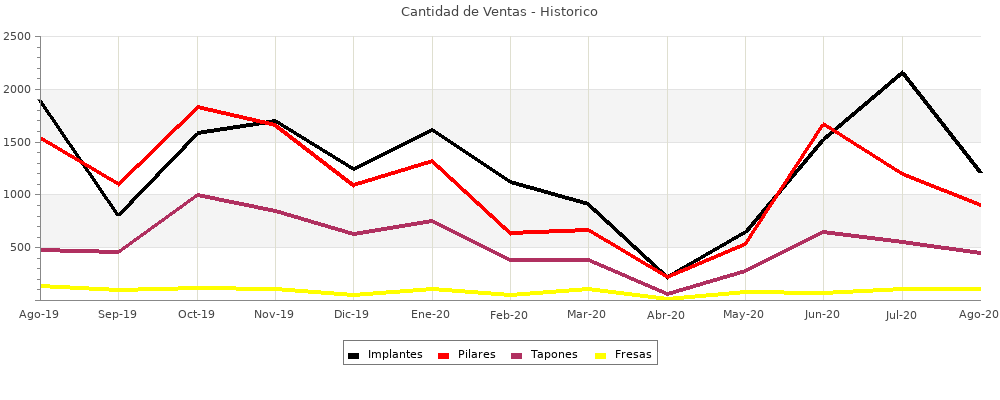
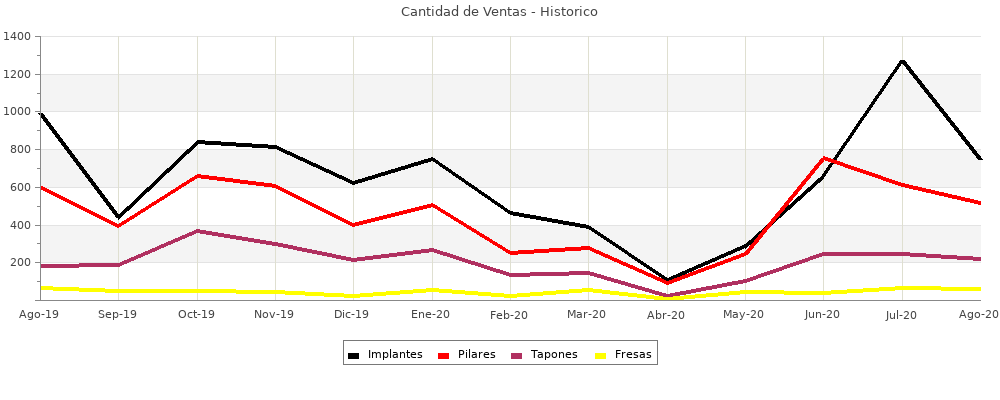
git-svn-id: file:///C/Users/yo/Documents/repositorio_svn_ondontopc/trunk@304 96c2d22d-f105-cb40-99ec-877b05c57555

diff --git a/web/css/inicio.css b/web/css/inicio.css
@@ -73,12 +73,11 @@ header{
 	font-size:16px;
 }
 
-.sf_admin_form{
+.sf_admin_form_row,
+.sf_admin_text, 
+.sf_admin_date,
+.sf_admin_form {
 	font-size: 1.3em;
-}
-
-.sf_admin_text, .sf_admin_date {
-	font-size: 1.2em;
 }
 
 .checkbox_list li{margin-left: 50px;}

diff --git a/lib/model/doctrine/Categoria.class.php b/lib/model/doctrine/Categoria.class.php
@@ -33,14 +33,11 @@ class Categoria extends BaseCategoria
 					from 
 						dev_producto dp
 							join producto p2 on dp.producto_id = p2.id
-							join lote l2 on dp.nro_lote = l2.nro_lote
 							join grupoprod g2 on p2.grupoprod_id = g2.id
 							join resumen r2 on dp.resumen_id = r2.id
 					where 
 						g2.categoria_id = g.categoria_id
 						and r2.tipofactura_id <> 4
-						and l2.activo = 1
-						and l2.externo = 0
 						and dp.fecha >= date_format(curdate(), '%Y-%m-01')
 						and ($p_zona = 0 or dp.zona_id = $p_zona)
 				) as cantidad
@@ -49,12 +46,9 @@ class Categoria extends BaseCategoria
 					join detalle_resumen dr on r.id = dr.resumen_id
 					join producto p on dr.producto_id = p.id
 					join grupoprod g on p.grupoprod_id = g.id
-					JOIN lote l ON dr.nro_lote = l.nro_lote
 			where 
 				g.categoria_id = ".$this->id."
 				and r.tipofactura_id <> 4
-				AND l.externo = 0
-				AND l.activo = 1 
 				and r.fecha >= date_format(curdate(), '%Y-%m-01')
 				and ($p_zona = 0 or r.zona_id = $p_zona)
 		";
@@ -70,14 +64,11 @@ class Categoria extends BaseCategoria
 					from 
 						dev_producto dp
 							join producto p2 on dp.producto_id = p2.id
-							join lote l2 on dp.nro_lote = l2.nro_lote
 							join grupoprod g2 on p2.grupoprod_id = g2.id
 							join resumen r2 on dp.resumen_id = r2.id
 					where 
 						g2.categoria_id = g.categoria_id
 						and r2.tipofactura_id <> 4
-						and l2.activo = 1
-						and l2.externo = 0
 						and dp.fecha between date_format(date_sub(curdate(), interval 1 month), '%Y-%m-01') and date_sub(curdate(), interval 1 month)
 						and ($p_zona = 0 or dp.zona_id = $p_zona)
 				) as cantidad
@@ -86,12 +77,9 @@ class Categoria extends BaseCategoria
 					join detalle_resumen dr on r.id = dr.resumen_id
 					join producto p on dr.producto_id = p.id
 					join grupoprod g on p.grupoprod_id = g.id
-					JOIN lote l ON dr.nro_lote = l.nro_lote
 			where 
 				g.categoria_id = ".$this->id."
 				and r.tipofactura_id <> 4
-				AND l.externo = 0
-				AND l.activo = 1 
 				and r.fecha between date_format(date_sub(curdate(), interval 1 month), '%Y-%m-01') and date_sub(curdate(), interval 1 month)
 				and ($p_zona = 0 or r.zona_id = $p_zona)
 		";
@@ -109,14 +97,11 @@ class Categoria extends BaseCategoria
 					from 
 						dev_producto dp
 							join producto p2 on dp.producto_id = p2.id
-							join lote l2 on dp.nro_lote = l2.nro_lote
 							join grupoprod g2 on p2.grupoprod_id = g2.id
 							join resumen r2 on dp.resumen_id = r2.id
 					where 
 						g2.categoria_id = g.categoria_id
 						and r2.tipofactura_id <> 4
-						and l2.activo = 1
-						and l2.externo = 0
 						and year(dp.fecha) = year(r.fecha)
 						and month(dp.fecha) = month(r.fecha)
 				) as cantidad
@@ -125,12 +110,9 @@ class Categoria extends BaseCategoria
 					join detalle_resumen dr on r.id = dr.resumen_id
 					join producto p on dr.producto_id = p.id
 					join grupoprod g on p.grupoprod_id = g.id
-					JOIN lote l ON dr.nro_lote = l.nro_lote
 			where 
 				g.categoria_id = ".$this->id."
 				and r.tipofactura_id <> 4
-				AND l.externo = 0
-				AND l.activo = 1 
 				and r.fecha between date_format(date_sub(curdate(), interval 13 month), '%Y-%m-01') and last_day(date_sub(curdate(), interval 1 month))
 				and ($p_zona = 0 or r.zona_id = $p_zona)
 			group by

diff --git a/lib/filter/doctrine/ListadoVentasFormFilter.class.php b/lib/filter/doctrine/ListadoVentasFormFilter.class.php
@@ -19,7 +19,9 @@ class ListadoVentasFormFilter extends BaseListadoVentasFormFilter
     $this->widgetSchema['producto_id'] = new sfWidgetFormDoctrineChoice(array('model' => $this->getRelatedModelName('Producto'), 'table_method' => 'getActivos', 'add_empty' => true, 'order_by' => array('apellido', 'asc')), array('data-placeholder' => 'Escriba un Nombre...', 'class' => 'chzn-select', 'style' => 'width:450px;'));
     $this->validatorSchema['producto_id'] = new sfValidatorDoctrineChoice(array('required' => false, 'model' => $this->getRelatedModelName('Producto'), 'column' => 'id'));		
     
-    $this->widgetSchema['cliente_id'] = new sfWidgetFormDoctrineChoice(array('model' => $this->getRelatedModelName('Cliente'), 'table_method' => 'getActivosListado', 'method' => 'getDescAfip', 'add_empty' => true, 'order_by' => array('apellido', 'asc')), array('data-placeholder' => 'Escriba un Nombre...', 'class' => 'chzn-select', 'style' => 'width:350px;'));
+		$this->widgetSchema['grupoprod_id'] = new sfWidgetFormDoctrineChoice(array('model' => $this->getRelatedModelName('Grupo'), 'add_empty' => true, 'order_by' => array('nombre', 'asc')));    		
+    
+		$this->widgetSchema['cliente_id'] = new sfWidgetFormDoctrineChoice(array('model' => $this->getRelatedModelName('Cliente'), 'table_method' => 'getActivosListado', 'method' => 'getDescAfip', 'add_empty' => true, 'order_by' => array('apellido', 'asc')), array('data-placeholder' => 'Escriba un Nombre...', 'class' => 'chzn-select', 'style' => 'width:350px;'));
     $this->validatorSchema['cliente_id'] = new sfValidatorDoctrineChoice(array('required' => false, 'model' => $this->getRelatedModelName('Cliente'))); 
 		
 		$this->widgetSchema['fecha'] = new sfWidgetFormFilterDate(array('from_date' => new sfWidgetFormDateJQueryUI(array("change_month" => true, "change_year" => true)), 'to_date' => new sfWidgetFormDateJQueryUI(array("change_month" => true, "change_year" => true)), 'with_empty' => false, 'template' => 'desde %from_date% &nbsp;&nbsp;&nbsp;&nbsp;&nbsp; hasta %to_date%'));

diff --git a/lib/filter/doctrine/ListadoComprasFormFilter.class.php b/lib/filter/doctrine/ListadoComprasFormFilter.class.php
@@ -17,6 +17,8 @@ class ListadoComprasFormFilter extends BaseListadoComprasFormFilter
   {
     $this->widgetSchema['producto_id'] = new sfWidgetFormDoctrineChoice(array('model' => $this->getRelatedModelName('Producto'), 'table_method' => 'getActivos', 'add_empty' => true, 'order_by' => array('apellido', 'asc')), array('data-placeholder' => 'Escriba un Nombre...', 'class' => 'chzn-select', 'style' => 'width:450px;'));
     $this->validatorSchema['producto_id'] = new sfValidatorDoctrineChoice(array('required' => false, 'model' => $this->getRelatedModelName('Producto'), 'column' => 'id'));
+
+    // $this->widgetSchema['grupoprod_id'] = new sfWidgetFormDoctrineChoice(array('model' => $this->getRelatedModelName('Grupo'), 'add_empty' => true, 'order_by' => array('nombre', 'asc')));    
     
     $this->widgetSchema['fecha'] = new sfWidgetFormFilterDate(array('from_date' => new sfWidgetFormDateJQueryUI(array("change_month" => true, "change_year" => true)), 'to_date' => new sfWidgetFormDateJQueryUI(array("change_month" => true, "change_year" => true)), 'with_empty' => false, 'template' => 'desde %from_date% &nbsp;&nbsp;&nbsp;&nbsp;&nbsp; hasta %to_date%'));
     $this->validatorSchema['fecha'] = new sfValidatorDateRange(array('required' => false, 'from_date' => new sfValidatorDate(array('required' => false, 'date_format' => '~(?P<day>\d{2})/(?P<month>\d{2})/(?P<year>\d{4})~')), 'to_date' => new sfValidatorDateTime(array('required' => false, 'date_format' => '~(?P<day>\d{2})/(?P<month>\d{2})/(?P<year>\d{4})~'))));  

diff --git a/lib/filter/doctrine/VentasZonaFormFilter.class.php b/lib/filter/doctrine/VentasZonaFormFilter.class.php
@@ -17,6 +17,8 @@ class VentasZonaFormFilter extends BaseVentasZonaFormFilter
     $this->widgetSchema['producto_id'] = new sfWidgetFormDoctrineChoice(array('model' => $this->getRelatedModelName('Producto'), 'table_method' => 'getActivos', 'add_empty' => true, 'order_by' => array('apellido', 'asc')), array('data-placeholder' => 'Escriba un Nombre...', 'class' => 'chzn-select', 'style' => 'width:450px;'));
     $this->validatorSchema['producto_id'] = new sfValidatorDoctrineChoice(array('required' => false, 'model' => $this->getRelatedModelName('Producto'), 'column' => 'id'));		
 		
+		$this->widgetSchema['grupoprod_id'] = new sfWidgetFormDoctrineChoice(array('model' => $this->getRelatedModelName('Grupo'), 'add_empty' => true, 'order_by' => array('nombre', 'asc')));    
+		
     $this->widgetSchema['cliente_id'] = new sfWidgetFormDoctrineChoice(array('model' => $this->getRelatedModelName('Cliente'), 'table_method' => 'getActivosListado', 'method' => 'getDescAfip', 'add_empty' => true, 'order_by' => array('apellido', 'asc')), array('data-placeholder' => 'Escriba un Nombre...', 'class' => 'chzn-select', 'style' => 'width:350px;'));
     $this->validatorSchema['cliente_id'] = new sfValidatorDoctrineChoice(array('required' => false, 'model' => $this->getRelatedModelName('Cliente'))); 
 		

diff --git a/lib/filter/doctrine/ProductoFormFilter.class.php b/lib/filter/doctrine/ProductoFormFilter.class.php
@@ -19,7 +19,9 @@ class ProductoFormFilter extends BaseProductoFormFilter
     unset($this['codigo'], $this['precio_vta'], $this['mueve_stock'], $this['stock_actual'], $this['ctr_fact_grupo']);
     
     $this->widgetSchema['activo'] = new sfWidgetFormChoice(array('choices' => array('' => '', 1 => 'Si', 0 => 'No')));
-    $this->validatorSchema['activo'] = new sfValidatorChoice(array('required' => false, 'choices' => array('', 1, 0)));        
+    $this->validatorSchema['activo'] = new sfValidatorChoice(array('required' => false, 'choices' => array('', 1, 0)));
+    
+    $this->widgetSchema['grupoprod_id'] = new sfWidgetFormDoctrineChoice(array('model' => $this->getRelatedModelName('Grupo'), 'add_empty' => true, 'order_by' => array('nombre', 'asc')));    
     
     $this->widgetSchema['genera_comision'] = new sfWidgetFormChoice(array('choices' => array('' => '', 1 => 'Si', 0 => 'No')));
     $this->validatorSchema['genera_comision'] = new sfValidatorChoice(array('required' => false, 'choices' => array('', 1, 0)));

diff --git a/lib/filter/doctrine/MovimientoProductoFormFilter.class.php b/lib/filter/doctrine/MovimientoProductoFormFilter.class.php
@@ -23,6 +23,8 @@ class MovimientoProductoFormFilter extends BaseMovimientoProductoFormFilter
     $this->widgetSchema['producto_id'] = new sfWidgetFormDoctrineChoice(array('model' => $this->getRelatedModelName('Producto'), 'table_method' => 'getActivos', 'add_empty' => true, 'order_by' => array('apellido', 'asc')), array('data-placeholder' => 'Escriba un Nombre...', 'class' => 'chzn-select', 'style' => 'width:450px;'));
     $this->validatorSchema['producto_id'] = new sfValidatorDoctrineChoice(array('required' => false, 'model' => $this->getRelatedModelName('Producto'), 'column' => 'id'));
     
+		$this->widgetSchema['grupoprod_id'] = new sfWidgetFormDoctrineChoice(array('model' => $this->getRelatedModelName('Grupo'), 'add_empty' => true, 'order_by' => array('nombre', 'asc')));    
+		
 		$this->widgetSchema['zona_id'] = new sfWidgetFormDoctrineChoice(array('model' => 'Zona', 'add_empty' => false));
 		$this->validatorSchema['zona_id'] = new sfValidatorPass(array('required' => false));	
 	

diff --git a/lib/filter/doctrine/ControlStockFormFilter.class.php b/lib/filter/doctrine/ControlStockFormFilter.class.php
@@ -22,6 +22,8 @@ class ControlStockFormFilter extends BaseControlStockFormFilter
     $this->widgetSchema['producto_id'] = new sfWidgetFormDoctrineChoice(array('model' => $this->getRelatedModelName('Producto'), 'table_method' => 'getActivos', 'add_empty' => true, 'order_by' => array('apellido', 'asc')), array('data-placeholder' => 'Escriba un Nombre...', 'class' => 'chzn-select', 'style' => 'width:450px;'));
     $this->validatorSchema['producto_id'] = new sfValidatorDoctrineChoice(array('required' => false, 'model' => $this->getRelatedModelName('Producto'), 'column' => 'id'));		
 
+		$this->widgetSchema['grupoprod_id'] = new sfWidgetFormDoctrineChoice(array('model' => $this->getRelatedModelName('Grupo'), 'add_empty' => true, 'order_by' => array('nombre', 'asc')));    
+		
 		$this->widgetSchema['nro_lote'] = new sfWidgetFormFilterInput(array('with_empty' => false), array('size' => '60px'));
 		$this->validatorSchema['nro_lote'] = new sfValidatorPass(array('required' => false));
 		

diff --git a/lib/filter/doctrine/DescuentoZonaFormFilter.class.php b/lib/filter/doctrine/DescuentoZonaFormFilter.class.php
@@ -15,6 +15,7 @@ class DescuentoZonaFormFilter extends BaseDescuentoZonaFormFilter
 		parent::setup();
 		
     $choices = ProductoTable::getArrayActivos();
-    $this->widgetSchema['producto_id'] = new sfWidgetFormChoice(array('choices' => $choices), array('data-placeholder' => 'Escriba un Nombre...', 'class' => 'chzn-select', 'style' => 'width:450px;'));        		
+    $this->widgetSchema['producto_id'] = new sfWidgetFormChoice(array('choices' => $choices), array('data-placeholder' => 'Escriba un Nombre...', 'class' => 'chzn-select', 'style' => 'width:450px;'));
+		$this->widgetSchema['grupoprod_id'] = new sfWidgetFormDoctrineChoice(array('model' => $this->getRelatedModelName('Grupoprod'), 'add_empty' => true, 'order_by' => array('nombre', 'asc')));    
   }
 }

diff --git a/lib/model/doctrine/GrupoprodTable.class.php b/lib/model/doctrine/GrupoprodTable.class.php
@@ -14,20 +14,20 @@ class GrupoprodTable extends Doctrine_Table
      */
     public static function getInstance()
     {
-        return Doctrine_Core::getTable('Grupoprod');
+        return Doctrine_Core::getTable('Grupoprod')->orderBy('nombre ASC');
     }
     
     public function retrieveProds(Doctrine_Query $q){
       $rootAlias = $q->getRootAlias();
       $q->where('id <> 1');
-      $q->orderBy('nombre');
+      $q->orderBy('nombre ASC');
       return $q;
     }
     
     public function getGruposActivos(){
       $q = Doctrine::getTable('Grupoprod')->createquery('q');
       $q->where('id <> 1');
-      $q->orderBy('nombre');
+      $q->orderBy('nombre ASC');
       return $q->execute();
     } 
 }

diff --git a/lib/form/doctrine/ProductoForm.class.php b/lib/form/doctrine/ProductoForm.class.php
@@ -17,7 +17,7 @@ class ProductoForm extends BaseProductoForm
     $image_url = $this->getOption('image_url');
     $modulo_factura = $this->getOption('modulo_factura');
     
-	$this->widgetSchema['nombre'] = new sfWidgetFormInput(array(), array('size' => '50'));
+    $this->widgetSchema['nombre'] = new sfWidgetFormInput(array(), array('size' => '50'));
     $this->widgetSchema['grupoprod_id'] = new sfWidgetFormDoctrineChoice(array('model' => $this->getRelatedModelName('Grupo'), 'add_empty' => false, 'order_by' => array('nombre', 'asc')));    
     
     $this->widgetSchema['activo'] = new sfWidgetFormChoice(array('choices' => array('' => '', 1 => 'Si', 0 => 'No')));

diff --git a/lib/model/doctrine/ListadoVentasTable.class.php b/lib/model/doctrine/ListadoVentasTable.class.php
@@ -26,7 +26,6 @@ class ListadoVentasTable extends Doctrine_Table
 			$q->leftJoin($rootAlias . '.Zona z');
 			$q->leftJoin('z.UsuarioZona uz');	
 			$q->where('uz.usuario = '.$id);
-			$q->andWhere($rootAlias . '.tipofactura_id <> 4');
 			return $q;
     }
 		
